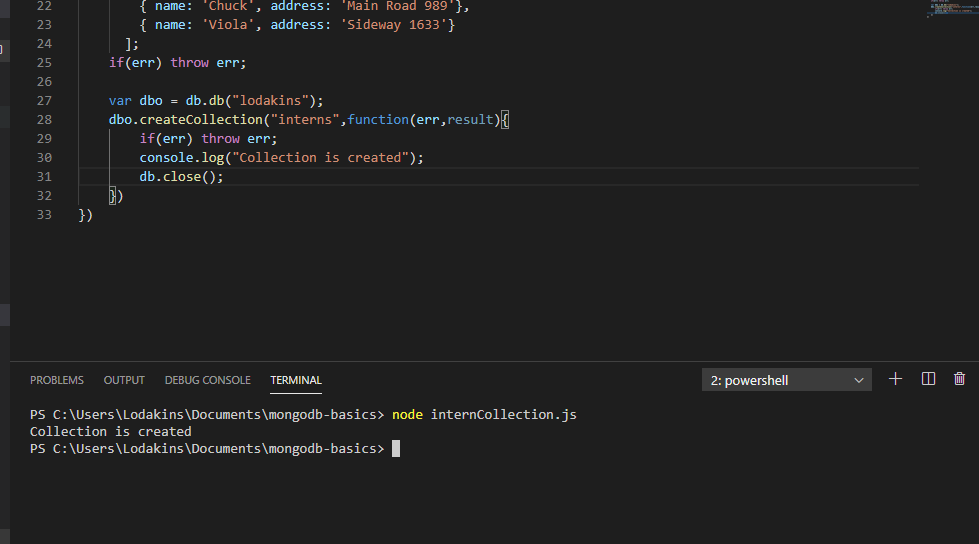
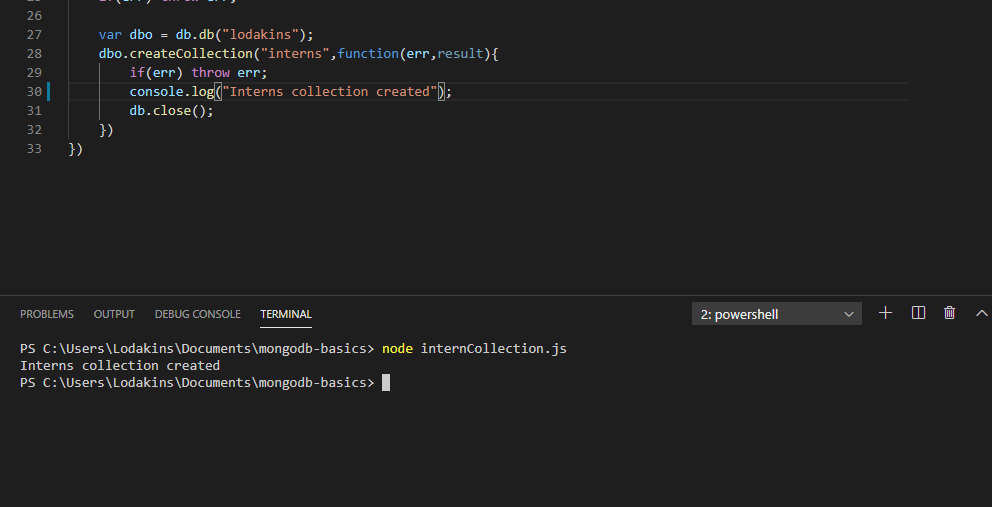
modified

diff --git a/internCollection.js b/internCollection.js
@@ -27,7 +27,7 @@ mongoClient.connect(url,{
     var dbo = db.db("lodakins");
     dbo.createCollection("interns",function(err,result){
         if(err) throw err;
-        console.log("Collection is created");
+        console.log("Interns collection created");
         db.close();
     })
 })
